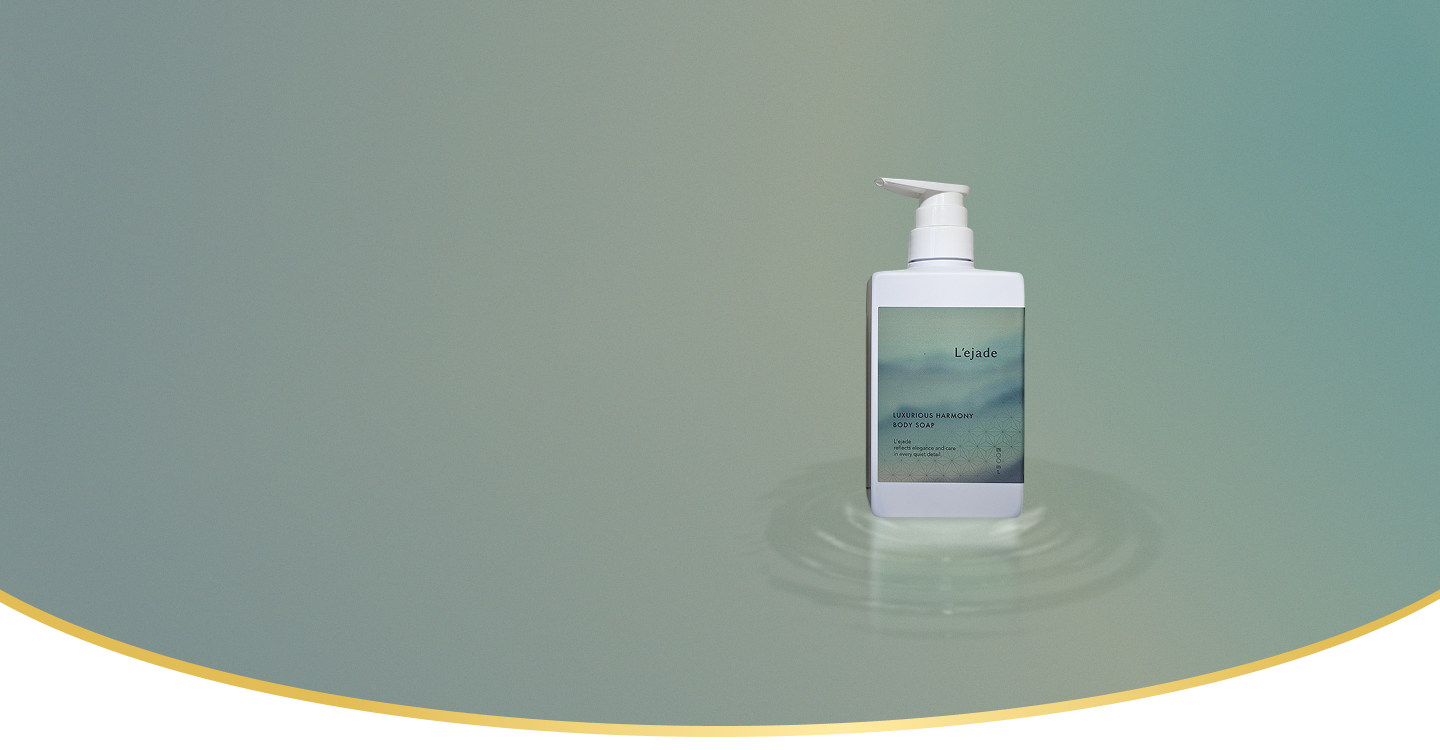
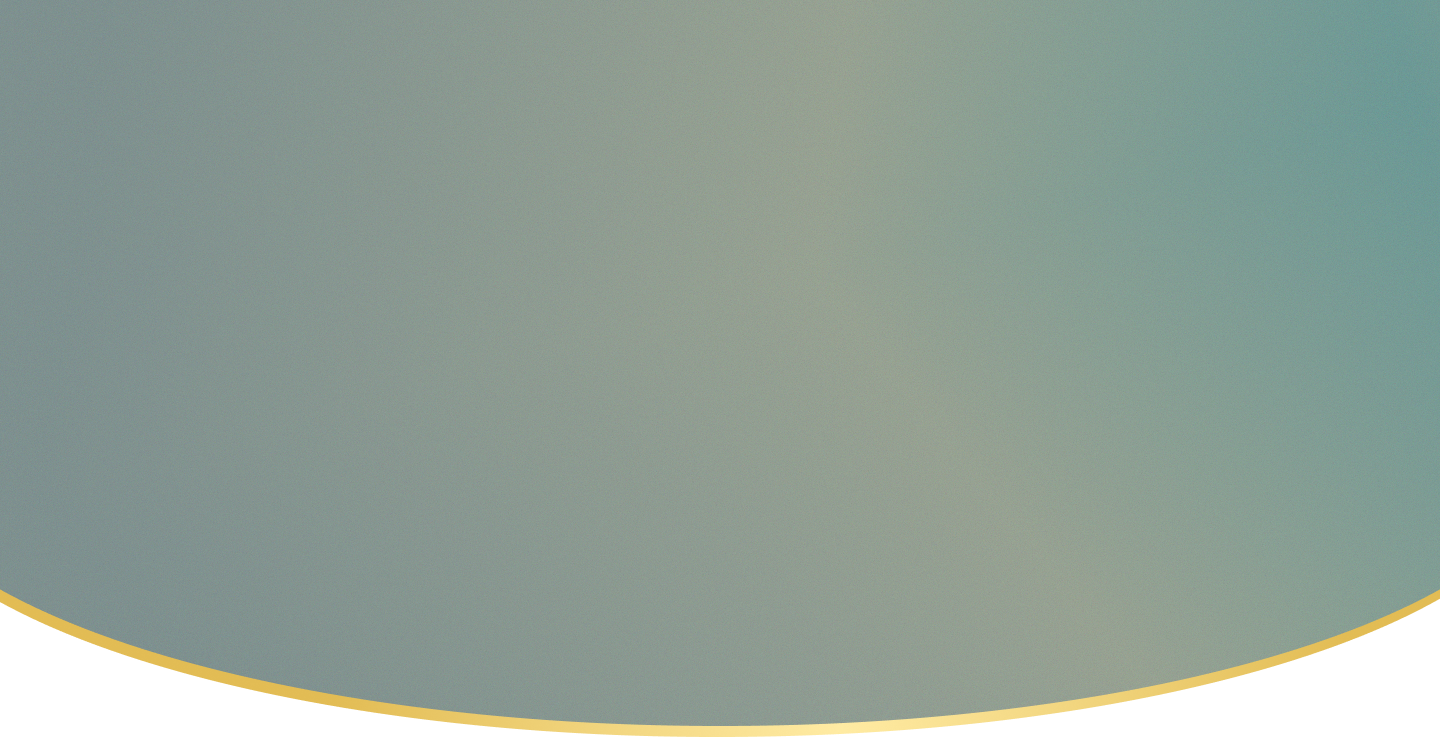
Initial commit

Changed region(s): [[0.0, 0.7802, 1.0, 1.0], [0.5938, 0.2185, 0.7188, 0.749]]

diff --git a/index.html b/index.html
@@ -28,6 +28,7 @@
      <div class="ripple-effect">
     <!-- ================hero section====================== -->
     <section class="hero-section-main "> 
+      <img src="picures/Frame 25.png" alt="" class="hero-product">
    <img src="picures/8 86.png" alt="" class="left-hero-iimg">
    <img src="picures/8 86.png" alt="" class="right-hero-iimg">
         <div class="hero-section-container">
@@ -546,49 +547,53 @@
     </button>
     <div class="faq-answer">
     <p>
-    <span>L’ejadeは、保湿感と清浄感の両立を目指し、成分のバランスに配慮して設計しています。</span>
-    <span>シア脂やアルガンオイルなどの保湿成分を配合し、洗い上がりのつっぱり感を感じにくい処方に整えました。</span>
-    <span>また、肌への負担を考慮し、4つのフリー設計（パラベン・アルコール・鉱物油・シリコン不使用）を採用しています。</span>
-    ※すべての方に刺激が起こらないわけではありません。</p>
+   <span> L'ejadeでは、肌への心地よさに配慮し、洗浄力・pHバランス・配合成分の設計を丁寧に行っています。</span>
+ <span>シア脂やアルガンオイルなどの保湿成分を配合し、乾燥しがちな洗い上がりにも配慮しました。</span>
+ <span>また、炭やクロロフィリン銅複合体などの清浄成分を取り入れることで、汚れや余分な皮脂をすっきりと洗い流し、清潔な肌環境へ導きます。</span>
+ <span>防腐剤を含む添加成分についても、品質を保ちながら全体のバランスを大切に処方しています。</span>
+うるおいと清らかさのどちらも妥協せず、毎日心地よくお使いいただけるよう仕立てています。
+    </p>
     </div>
     </div>
 
     <div class="faq-item">
     <button class="faq-question">
-    Q2. 洗浄力が高いと乾燥しませんか？<span class="icon">+</span>
+    Q2. 洗浄力が高いと、肌に負担がかかるのでは？<span class="icon">+</span>
     </button>
     <div class="faq-answer">
     <p>
-    <span>L’ejadeは、保湿感と清浄感の両立を目指し、成分のバランスに配慮して設計しています。</span>
-    <span>シア脂やアルガンオイルなどの保湿成分を配合し、洗い上がりのつっぱり感を感じにくい処方に整えました。</span>
-    <span>また、肌への負担を考慮し、4つのフリー設計（パラベン・アルコール・鉱物油・シリコン不使用）を採用しています。</span>
-    ※すべての方に刺激が起こらないわけではありません。</p>
+    <span>L'ejadeは、“洗う”という時間を、ただ汚れを落とすためだけではなく、肌と心を静かに整えるひとときと考えています。</span>
+<span>そのため洗浄設計においては、石けん由来のすっきりとした洗浄力と、ベタイン系洗浄成分のまろやかな使用感をバランスよく組み合わせました。</span>
+<span>皮脂や汗などの汚れはきちんと洗い流しながらも、必要なうるおいまで奪いすぎないよう配慮し、なめらかで繊細な泡が肌をやさしく包み込みます。</span>
+<span>洗い上がりは、過度なつっぱり感を感じにくい、心地よい清潔感を目指しました。</span>
+<span>乾いた日々のすき間に、深く息をつくような余白を。</span>
+L'ejadeは、清らかさとやわらかさのどちらも大切にした、穏やかな洗い心地を追求しています。</p>
     </div>
     </div>
 
     <div class="faq-item">
     <button class="faq-question">
-    Q3. ニオイ対策として使えますか？ <span class="icon">+</span>
+    Q3. ニオイ対策としての効果は？ <span class="icon">+</span>
     </button>
     <div class="faq-answer">
     <p>
-    <span>L’ejadeは、保湿感と清浄感の両立を目指し、成分のバランスに配慮して設計しています。</span>
-    <span>シア脂やアルガンオイルなどの保湿成分を配合し、洗い上がりのつっぱり感を感じにくい処方に整えました。</span>
-    <span>また、肌への負担を考慮し、4つのフリー設計（パラベン・アルコール・鉱物油・シリコン不使用）を採用しています。</span>
-    ※すべての方に刺激が起こらないわけではありません。</p>
+    <span>L'ejadeは、ただ香りで覆い隠すのではなく、洗浄そのものを通して肌を清らかに整えることを大切にしています。</span>
+<span>茶葉エキス、亜鉛、カキタンニン、炭を織り込んだ処方が、汗や皮脂などの汚れをすっきりと洗い流し、澄んだ印象の肌へと導きます。</span>
+<span>さらに香りは、過度に主張するのではなく、余韻のヴェールのように静かに寄り添う設計に。</span>
+<span>洗浄と香りが響き合い、気配までも端正に整うような、洗練された清潔感を目指しました。</span></p>
     </div>
     </div>
 
     <div class="faq-item">
     <button class="faq-question">
-    Q4. 香りはどのような印象ですか？<span class="icon">+</span>
+    Q4. 使用後の香りはどんな感じ？<span class="icon">+</span>
     </button>
     <div class="faq-answer">
     <p>
-    <span>L’ejadeは、保湿感と清浄感の両立を目指し、成分のバランスに配慮して設計しています。</span>
-    <span>シア脂やアルガンオイルなどの保湿成分を配合し、洗い上がりのつっぱり感を感じにくい処方に整えました。</span>
-    <span>また、肌への負担を考慮し、4つのフリー設計（パラベン・アルコール・鉱物油・シリコン不使用）を採用しています。</span>
-    ※すべての方に刺激が起こらないわけではありません。</p>
+    <span>洗浄中は、上質なホテルのエントランスに足を踏み入れた瞬間のような、洗練と静けさを感じさせる香りがやさしく広がります。</span>
+<span>洗い流した後は、香りが過度に残るのではなく、清潔感を帯びた余韻として肌にそっと寄り添います。</span>
+<span>肌が呼吸するたび、ほのかな気配となって立ちのぼり、華やかに主張せずとも印象を残す。</span>
+<span>L'ejadeは、香りを纏うというより、品格ある空気を肌に宿すような仕上がりを目指しました。</span></p>
     </div>
     </div>
     </div>
@@ -609,66 +614,6 @@
 <script src="https://unpkg.com/aos@2.3.1/dist/aos.js"></script>
 <script>
   AOS.init();
-</script>
-
-<script src="js/jquery-3.6.0.min.js"></script>
-<script src="js/jquery.ripples.min.js"></script>
-
-<script>
-$(document).ready(function () {
-
-  function initRipples() {
-    if ($(window).width() < 768) return; // Only desktop
-
-    $(".ripple-effect section").each(function () {
-      var $el = $(this);
-
-      // Initialize ripples with optimized settings
-      $el.ripples({
-        resolution: 128,      // lower = faster
-        dropRadius: 15,       // smaller = lighter
-        perturbance: 0.01,    // subtle ripples
-        interactive: false    // disables continuous pointer tracking
-      });
-
-      // Throttle mousemove for performance
-      let lastDrop = 0;
-      $el.on("mousemove.ripples", function (e) {
-        const now = Date.now();
-        if (now - lastDrop > 50) { // max 20 fps
-          var x = e.pageX - $el.offset().left;
-          var y = e.pageY - $el.offset().top;
-          $el.ripples("drop", x, y, 20, 0.02);
-          lastDrop = now;
-        }
-      });
-    });
-  }
-
-  function destroyRipples() {
-    $(".ripple-effect section").each(function () {
-      var $el = $(this);
-      if ($el.data('ripples')) {
-        $el.ripples('destroy');
-        $el.off('mousemove.ripples'); // remove event listener
-      }
-    });
-  }
-
-  // Initial setup
-  initRipples();
-
-  // Re-init/destroy on window resize
-  $(window).resize(function () {
-    if ($(window).width() >= 768) {
-      destroyRipples();
-      initRipples();
-    } else {
-      destroyRipples();
-    }
-  });
-
-});
 </script>
 
 

diff --git a/style.css b/style.css
@@ -46,6 +46,19 @@
 
     /* =================hero section===================== */
 
+@media (min-width:990px) {
+ .hero-product{
+    position: absolute;
+    left: 45%;
+    display: block;
+}   
+}
+@media (max-width:990px) {
+    .hero-product{
+    display: none;
+}
+}
+
     @media (min-width:990px) {
         .hero-section-main {
         background-image: url(picures/FV背景.png);
@@ -57,14 +70,14 @@
     position: absolute;
     right: -48px;
     top: 0;
-    width: 20%;
+    width: 200px;
     }
     .left-hero-iimg{
     position: absolute;
     border-radius: 50%;
     left: -44px;
     bottom: 17%;
-    width: 18%;
+    width:200px;
     }
     }
 
@@ -1481,7 +1494,7 @@ color: #C8A86B;
     font-family: Noto Serif JP;
     font-weight: 400;
     font-size: 16px;
-    line-height: 16px;
+    line-height: 20px;
     letter-spacing: 0%;
     }
     .faq-answer p span{
@@ -1779,6 +1792,9 @@ color: #C8A86B;
     .last-parent-first img{
         width: 179px ;
         height: 179px;
+    }
+    .main-qty-box{
+    width: 50% !important;
     }
 .last-background-text span{
     display: block;
